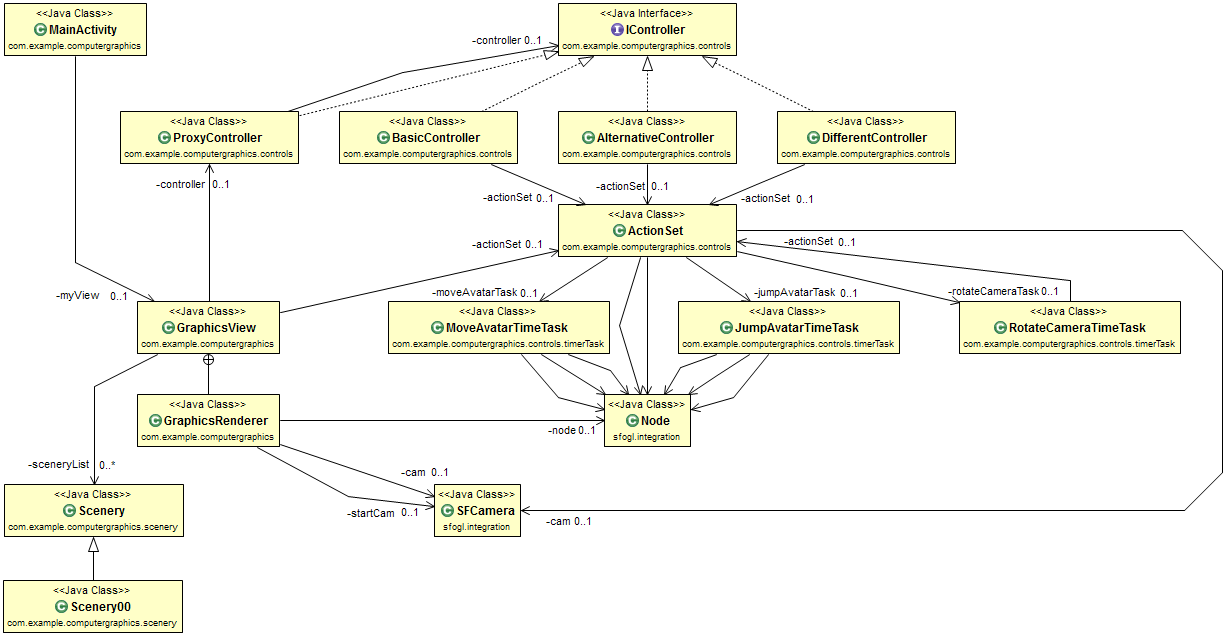
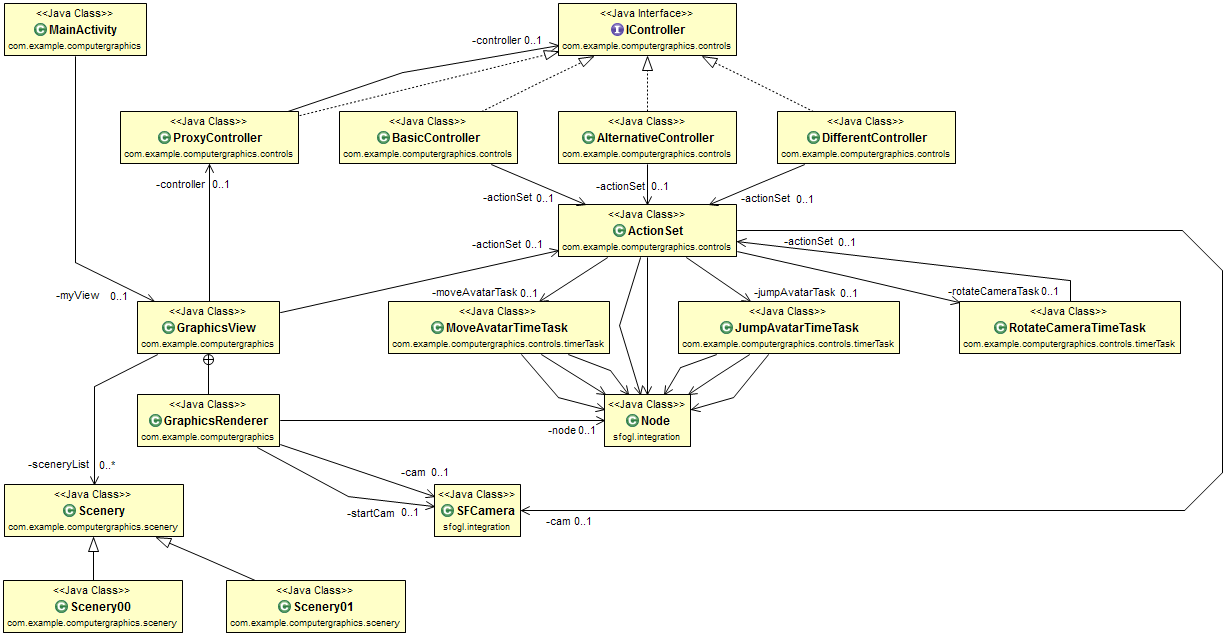
v0.2.5 - Graphical bug fixed.
[Next Steps:]
- Generate a winner message when the Avatar escape from labyrinth.
- Improve textures.
- Improve camera movement along Y axis.

v0.2.4
- Added first playable labyrinth scenery.

[Next Steps:]
- Generate a winner message when the Avatar escape from labyrinth.
- Improve textures.
- Improve camera movement along Y axis.

v0.2.3
- Important refactoring to prepare support more scenery (such as  labyrinths).
- Bug fixed.

[Next Steps:]
- Realize a game such as a labyrinth and no longer random obstacles.
- Improve textures.
- Improve camera movement along Y axis.

v0.2.2    *All controllers implemented*
- Completed DifferentController implementation.
- Minimal refactoring.

[Next Steps:]
- Check all boolean variables of controllers to avoid any possible graphical bugs.
- Realize a game such as a labyrinth and no longer random obstacles.
- Improve textures.
- Improve camera movement along Y axis.

v0.2.1    *3/4 controllers implemented*
- Completed AlternativeController implementation.
- Minimal refactoring.
- Update controller's icons

[Next Steps:]
- Implements the last one controller.
- Improve textures.
- Improve camera movement along Y axis.

v0.2    *First well playable version with perspective*
- Improved perspective: now basicController is complete in both its versions (absolute and centered).
- Externals walls are no longer a problem.

[Next Steps:]
- Implements the other controllers.
- Improve textures.
- Improve camera movement along Y axis.
[…]

Changed region(s): [[0.1864, 0.8962, 0.3418, 1.0], [0.1243, 0.8365, 0.1554, 0.8664]]

diff --git a/ComputerGraphics/src/com/example/computergraphics/scenery/Scenery01.java b/ComputerGraphics/src/com/example/computergraphics/scenery/Scenery01.java
@@ -9,6 +9,7 @@ import shadow.math.SFVertex3f;
 public class Scenery01 extends Scenery {
 
 	private static final float ROOM_DIMENSION = 3.5f;
+	private static final float ERR = 2*SPESS_MURO;	//This is to non overlap the inner walls
     private float altezzObst;
     
     /**
@@ -42,6 +43,7 @@ public class Scenery01 extends Scenery {
 	
 	@Override
 	public Node getSceneryNode(Model model) {
+		enabledExternalWalls = startModel==null || finalModel==null;
 		Node backgroundNode = super.createBackgroundNode(model, ROOM_DIMENSION);
         
         Node innerObstaclesNode = createInnerObstacleNode(model);
@@ -54,41 +56,48 @@ public class Scenery01 extends Scenery {
 
 	private Node createInnerObstacleNode(Model model) {
 		Node innerObstaclesNode = new Node();
-		innerObstaclesNode.getSonNodes().add(createWallNode(model, -3.5f, 0f, 0f, 3.5f, altezzObst));
-		innerObstaclesNode.getSonNodes().add(createWallNode(model, -2.5f, -0.5f, 0f, 1f, altezzObst));
-		innerObstaclesNode.getSonNodes().add(createWallNode(model, -2.5f, 2f, 0f, 0.5f, altezzObst));
-		innerObstaclesNode.getSonNodes().add(createWallNode(model, -1.5f, -2f, 0f, 0.5f, altezzObst));
-		innerObstaclesNode.getSonNodes().add(createWallNode(model, -1.5f, 0f, 0f, 0.5f, altezzObst));
 		
-		innerObstaclesNode.getSonNodes().add(createWallNode(model, -0.5f, -3f, 0f, 0.5f, altezzObst));
-		innerObstaclesNode.getSonNodes().add(createWallNode(model, -0.5f, 2.5f, 0f, 1f, altezzObst));
-		innerObstaclesNode.getSonNodes().add(createWallNode(model, 0.5f, -3f, 0f, 0.5f, altezzObst));
-		innerObstaclesNode.getSonNodes().add(createWallNode(model, 0.5f, 3f, 0f, 0.5f, altezzObst));
-		innerObstaclesNode.getSonNodes().add(createWallNode(model, 1.5f, -1f, 0f, 0.5f, altezzObst));
+		innerObstaclesNode.getSonNodes().add(createWallNode(model, -2.5f, -0.5f, 0f, 1f-ERR, altezzObst));
+		innerObstaclesNode.getSonNodes().add(createWallNode(model, -2.5f, 2f, 0f, 0.5f-ERR, altezzObst));
+		innerObstaclesNode.getSonNodes().add(createWallNode(model, -1.5f, -2f, 0f, 0.5f-ERR, altezzObst));
+		innerObstaclesNode.getSonNodes().add(createWallNode(model, -1.5f, 0f, 0f, 0.5f-ERR, altezzObst));
 		
-		innerObstaclesNode.getSonNodes().add(createWallNode(model, 1.5f, 1f, 0f, 0.5f, altezzObst));
-		innerObstaclesNode.getSonNodes().add(createWallNode(model, 2.5f, 2.5f, 0f, 1f, altezzObst));
-		innerObstaclesNode.getSonNodes().add(createWallNode(model, 3.5f, 0f, 0f, 3.5f, altezzObst));
+		innerObstaclesNode.getSonNodes().add(createWallNode(model, -0.5f, -3f, 0f, 0.5f-ERR, altezzObst));
+		innerObstaclesNode.getSonNodes().add(createWallNode(model, -0.5f, 2.5f, 0f, 1f-ERR, altezzObst));
+		innerObstaclesNode.getSonNodes().add(createWallNode(model, 0.5f, -3f, 0f, 0.5f-ERR, altezzObst));
+		innerObstaclesNode.getSonNodes().add(createWallNode(model, 0.5f, 3f, 0f, 0.5f-ERR, altezzObst));
+		
+		innerObstaclesNode.getSonNodes().add(createWallNode(model, 1.5f, -1f, 0f, 0.5f-ERR, altezzObst));
+		innerObstaclesNode.getSonNodes().add(createWallNode(model, 1.5f, 1f, 0f, 0.5f-ERR, altezzObst));
+		innerObstaclesNode.getSonNodes().add(createWallNode(model, 2.5f, 2.5f, 0f, 1f-ERR, altezzObst));
 		
 		
 
-		innerObstaclesNode.getSonNodes().add(createWallNode(model, -2f, -3.5f, 1.5f, 0f, altezzObst));
-		innerObstaclesNode.getSonNodes().add(createWallNode(model, 2f, -3.5f, 1.5f, 0f, altezzObst));
 		innerObstaclesNode.getSonNodes().add(createWallNode(model, -2.5f, -2.5f, 1f, 0f, altezzObst));
 		innerObstaclesNode.getSonNodes().add(createWallNode(model, 1.5f, -2.5f, 1f, 0f, altezzObst));
 		innerObstaclesNode.getSonNodes().add(createWallNode(model, -1f, -1.5f, 0.5f, 0f, altezzObst));
-
 		innerObstaclesNode.getSonNodes().add(createWallNode(model, 2f, -1.5f, 1.5f, 0f, altezzObst));
+		
 		innerObstaclesNode.getSonNodes().add(createWallNode(model, 0.5f, -0.5f, 2f, 0f, altezzObst));
 		innerObstaclesNode.getSonNodes().add(createWallNode(model, -2f, 0.5f, 0.5f, 0f, altezzObst));
 		innerObstaclesNode.getSonNodes().add(createWallNode(model, 0.5f, 0.5f, 1f, 0f, altezzObst));
 		innerObstaclesNode.getSonNodes().add(createWallNode(model, 3f, 0.5f, 0.5f, 0f, altezzObst));
-
+		
 		innerObstaclesNode.getSonNodes().add(createWallNode(model, -0.5f, 1.5f, 2f, 0f, altezzObst));
 		innerObstaclesNode.getSonNodes().add(createWallNode(model, -2f, 2.5f, 0.5f, 0f, altezzObst));
 		innerObstaclesNode.getSonNodes().add(createWallNode(model, 1f, 2.5f, 0.5f, 0f, altezzObst));
-		innerObstaclesNode.getSonNodes().add(createWallNode(model, -2f, 3.5f, 1.5f, 0f, altezzObst));
-		innerObstaclesNode.getSonNodes().add(createWallNode(model, 2f, 3.5f, 1.5f, 0f, altezzObst));
+		
+		if(startModel!=null && finalModel!=null){
+			innerObstaclesNode.getSonNodes().add(createWallNode(model, -3.5f, 0f, 0f, 3.5f-ERR, altezzObst));
+			innerObstaclesNode.getSonNodes().add(createWallNode(model, 3.5f, 0f, 0f, 3.5f-ERR, altezzObst));
+			
+			innerObstaclesNode.getSonNodes().add(createWallNode(model, -2f, -3.5f, 1.5f, 0f, altezzObst));
+			innerObstaclesNode.getSonNodes().add(createWallNode(startModel, 0, -3.5f, 0.5f-ERR, 0f, altezzObst));
+			innerObstaclesNode.getSonNodes().add(createWallNode(model, 2f, -3.5f, 1.5f, 0f, altezzObst));
+			innerObstaclesNode.getSonNodes().add(createWallNode(model, -2f, 3.5f, 1.5f, 0f, altezzObst));
+			innerObstaclesNode.getSonNodes().add(createWallNode(finalModel, 0, 3.5f, 0.5f-ERR, 0f, altezzObst));
+			innerObstaclesNode.getSonNodes().add(createWallNode(model, 2f, 3.5f, 1.5f, 0f, altezzObst));
+		}
 		
         return innerObstaclesNode;
 	}

diff --git a/ComputerGraphics/src/com/example/computergraphics/GraphicsView.java b/ComputerGraphics/src/com/example/computergraphics/GraphicsView.java
@@ -209,6 +209,8 @@ public class GraphicsView extends GLSurfaceView{
 			Node avatarNode, backgroundNode=null;
             
             if (sceneryNumber!=0) {
+            	sceneryList.get(sceneryNumber).setStartModel(models.get(1));
+            	sceneryList.get(sceneryNumber).setFinishModel(models.get(2));
             	backgroundNode = sceneryList.get(sceneryNumber).getSceneryNode(models.get(0));
 			}
             
@@ -272,6 +274,22 @@ public class GraphicsView extends GLSurfaceView{
             model2.setRootGeometry(mesh2);
             model2.setMaterialComponent(material2);
             models.add(model2);
+
+            //Step 2-5tris: do the same for extra
+            BitmapTexture texture3 = BitmapTexture.loadBitmapTexture(BitmapFactory.decodeResource(context.getResources(),
+                    R.drawable.redpaddedroomtexture01), textureModel);
+            texture3.init();
+            
+            Material material3=new Material(program);
+            material3.getTextures().add(texture3);
+
+            Mesh mesh3=new Mesh(objects[0]);
+            mesh3.init();
+
+            Model model3=new Model();
+            model3.setRootGeometry(mesh3);
+            model3.setMaterialComponent(material3);
+            models.add(model3);
             
 			return models;
 		}
@@ -338,26 +356,28 @@ public class GraphicsView extends GLSurfaceView{
         	cam.update();
             program.setupProjection(cam.extractTransform());
             
-            if(cam.getDir().getZ()>Math.abs(cam.getDir().getX())){				//Se punto verso l'alto..
-            	node.getSonNodes().get(1).getSonNodes().get(1).setEnabled(true);
-            	node.getSonNodes().get(1).getSonNodes().get(2).setEnabled(true);
-            	node.getSonNodes().get(1).getSonNodes().get(3).setEnabled(true);
-            	node.getSonNodes().get(1).getSonNodes().get(4).setEnabled(false);	//..rimuovo il muro in basso
-            } else if(cam.getDir().getZ()<-Math.abs(cam.getDir().getX())){		//Se punto verso il basso..
-            	node.getSonNodes().get(1).getSonNodes().get(1).setEnabled(true);
-            	node.getSonNodes().get(1).getSonNodes().get(2).setEnabled(false);	//..rimuovo il muro in alto
-            	node.getSonNodes().get(1).getSonNodes().get(3).setEnabled(true);
-            	node.getSonNodes().get(1).getSonNodes().get(4).setEnabled(true);
-            } else if(cam.getDir().getX()>Math.abs(cam.getDir().getZ())){		//Se punto verso destra..
-            	node.getSonNodes().get(1).getSonNodes().get(1).setEnabled(true);
-            	node.getSonNodes().get(1).getSonNodes().get(2).setEnabled(true);
-            	node.getSonNodes().get(1).getSonNodes().get(3).setEnabled(false);	//..rimuovo il muro a sinistra
-            	node.getSonNodes().get(1).getSonNodes().get(4).setEnabled(true);
-            } else if(cam.getDir().getX()<-Math.abs(cam.getDir().getZ())){		//Se punto verso sinistra..
-            	node.getSonNodes().get(1).getSonNodes().get(1).setEnabled(false);	//..rimuovo il muro a destra
-            	node.getSonNodes().get(1).getSonNodes().get(2).setEnabled(true);
-            	node.getSonNodes().get(1).getSonNodes().get(3).setEnabled(true);
-            	node.getSonNodes().get(1).getSonNodes().get(4).setEnabled(true);
+            if (sceneryList.get(sceneryNumber).isEnabledExternalWalls()){
+	            if(cam.getDir().getZ()>Math.abs(cam.getDir().getX())){				//Se punto verso l'alto..
+	            	node.getSonNodes().get(1).getSonNodes().get(1).setEnabled(true);
+	            	node.getSonNodes().get(1).getSonNodes().get(2).setEnabled(true);
+	            	node.getSonNodes().get(1).getSonNodes().get(3).setEnabled(true);
+	            	node.getSonNodes().get(1).getSonNodes().get(4).setEnabled(false);	//..rimuovo il muro in basso
+	            } else if(cam.getDir().getZ()<-Math.abs(cam.getDir().getX())){		//Se punto verso il basso..
+	            	node.getSonNodes().get(1).getSonNodes().get(1).setEnabled(true);
+	            	node.getSonNodes().get(1).getSonNodes().get(2).setEnabled(false);	//..rimuovo il muro in alto
+	            	node.getSonNodes().get(1).getSonNodes().get(3).setEnabled(true);
+	            	node.getSonNodes().get(1).getSonNodes().get(4).setEnabled(true);
+	            } else if(cam.getDir().getX()>Math.abs(cam.getDir().getZ())){		//Se punto verso destra..
+	            	node.getSonNodes().get(1).getSonNodes().get(1).setEnabled(true);
+	            	node.getSonNodes().get(1).getSonNodes().get(2).setEnabled(true);
+	            	node.getSonNodes().get(1).getSonNodes().get(3).setEnabled(false);	//..rimuovo il muro a sinistra
+	            	node.getSonNodes().get(1).getSonNodes().get(4).setEnabled(true);
+	            } else if(cam.getDir().getX()<-Math.abs(cam.getDir().getZ())){		//Se punto verso sinistra..
+	            	node.getSonNodes().get(1).getSonNodes().get(1).setEnabled(false);	//..rimuovo il muro a destra
+	            	node.getSonNodes().get(1).getSonNodes().get(2).setEnabled(true);
+	            	node.getSonNodes().get(1).getSonNodes().get(3).setEnabled(true);
+	            	node.getSonNodes().get(1).getSonNodes().get(4).setEnabled(true);
+	            }
             }
         	
             node.updateTree(new SFTransform3f());

diff --git a/ComputerGraphics/src/com/example/computergraphics/scenery/Scenery.java b/ComputerGraphics/src/com/example/computergraphics/scenery/Scenery.java
@@ -13,10 +13,16 @@ public class Scenery {
     static final protected float LUNGH_MURO = 3.00f;			//for each side
     static final protected float SPESS_MURO = 0.05f;			//for each side (is good also with 0f)
     protected float altezzMuro;
+    protected Model startModel;
+    protected Model finalModel;
+    protected boolean enabledExternalWalls = true;
 	
     public Scenery(float avatarBody) {
 		altezzMuro = avatarBody*2.5f;
 	}
+    public boolean isEnabledExternalWalls() {
+		return enabledExternalWalls;
+    }
     
     public float getRoomDimension() {
 		return LUNGH_MURO;
@@ -30,6 +36,26 @@ public class Scenery {
 		return new SFVertex3f(0,0,0);
 	}
 	
+	/**
+	 * Call this BEFORE calling {@link #getSceneryNode(Model)} if you want to visualize the start position
+	 * @param startModel the model used to visualize the start position.
+	 */
+	public void setStartModel(Model startModel) {
+		this.startModel = startModel;
+	}
+
+	/**
+	 * Call this BEFORE calling {@link #getSceneryNode(Model)} if you want to visualize the final position
+	 * @param finalModel the model used to visualize the final position.
+	 */
+	public void setFinishModel(Model finalModel) {
+		this.finalModel = finalModel;
+	}
+	/**
+	 * Create the scenery. If you are interested to visualize start or final postion, 
+	 * call {@link #setStartModel(Model)} or {@link #setFinishModel(Model) BEFORE calling this method.
+	 * @param model the model used to visualize the scenery.
+	 */
 	public Node getSceneryNode(Model model) {
 		Node sceneryNode = createBackgroundNode(model, LUNGH_MURO);
 		return sceneryNode;
@@ -42,12 +68,16 @@ public class Scenery {
         floorNode.getRelativeTransform().setPosition(0.0f, -SPESS_MURO, 0.0f);
         floorNode.getRelativeTransform().setMatrix(SFMatrix3f.getScale(sceneryDimension+SPESS_MURO,SPESS_MURO,sceneryDimension+SPESS_MURO));
         backgroundNode.getSonNodes().add(floorNode);
-
+        
         backgroundNode.getSonNodes().add(createWallNode(model, sceneryDimension, 0, 0, sceneryDimension, altezzMuro));
         backgroundNode.getSonNodes().add(createWallNode(model, 0, sceneryDimension, sceneryDimension, 0, altezzMuro));
         backgroundNode.getSonNodes().add(createWallNode(model, -sceneryDimension, 0, 0, sceneryDimension, altezzMuro));
         backgroundNode.getSonNodes().add(createWallNode(model, 0, -sceneryDimension, sceneryDimension, 0, altezzMuro));
-		
+        if(!enabledExternalWalls){
+        	for (int i = 1; i < 5; i++) {
+        		backgroundNode.getSonNodes().get(i).setEnabled(false);
+			}
+        }
 		backgroundNode.getRelativeTransform().setPosition(0,0,0);
 		backgroundNode.getRelativeTransform().setMatrix(SFMatrix3f.getScale(1,1,1));
         

diff --git a/ComputerGraphics/src/com/example/computergraphics/scenery/Scenery00.java b/ComputerGraphics/src/com/example/computergraphics/scenery/Scenery00.java
@@ -5,7 +5,6 @@ import java.util.Random;
 import sfogl.integration.Model;
 import sfogl.integration.Node;
 import shadow.math.SFMatrix3f;
-import shadow.math.SFVertex3f;
 
 /**See superclass {@link Scenery}) */
 public class Scenery00 extends Scenery {
